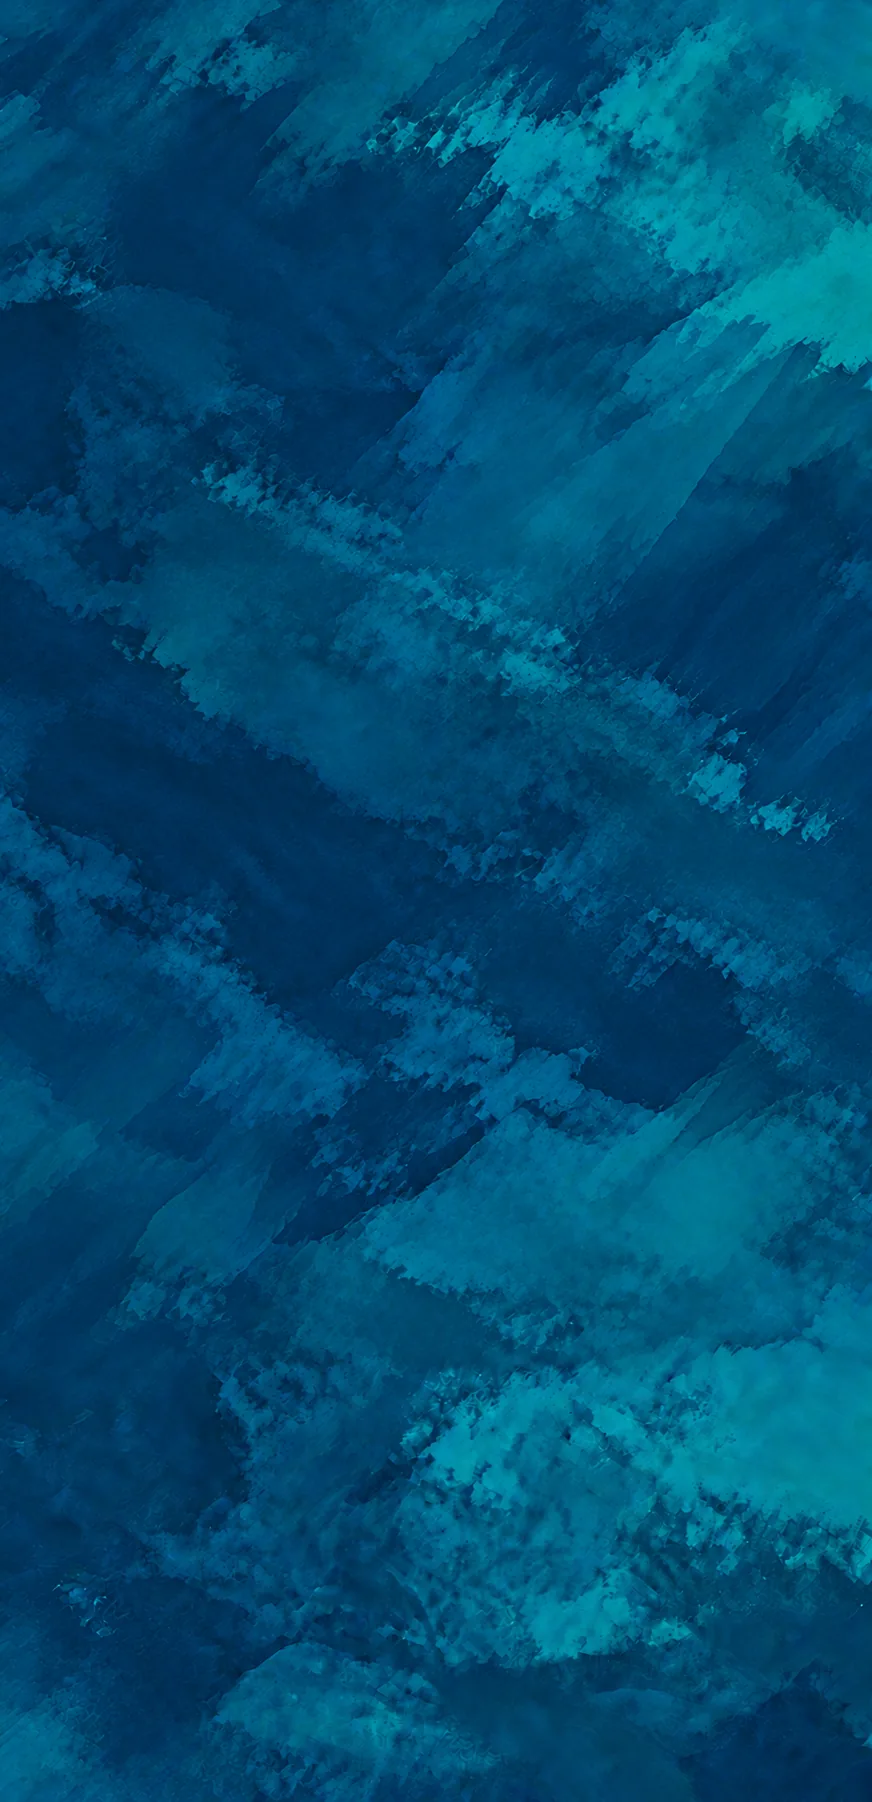
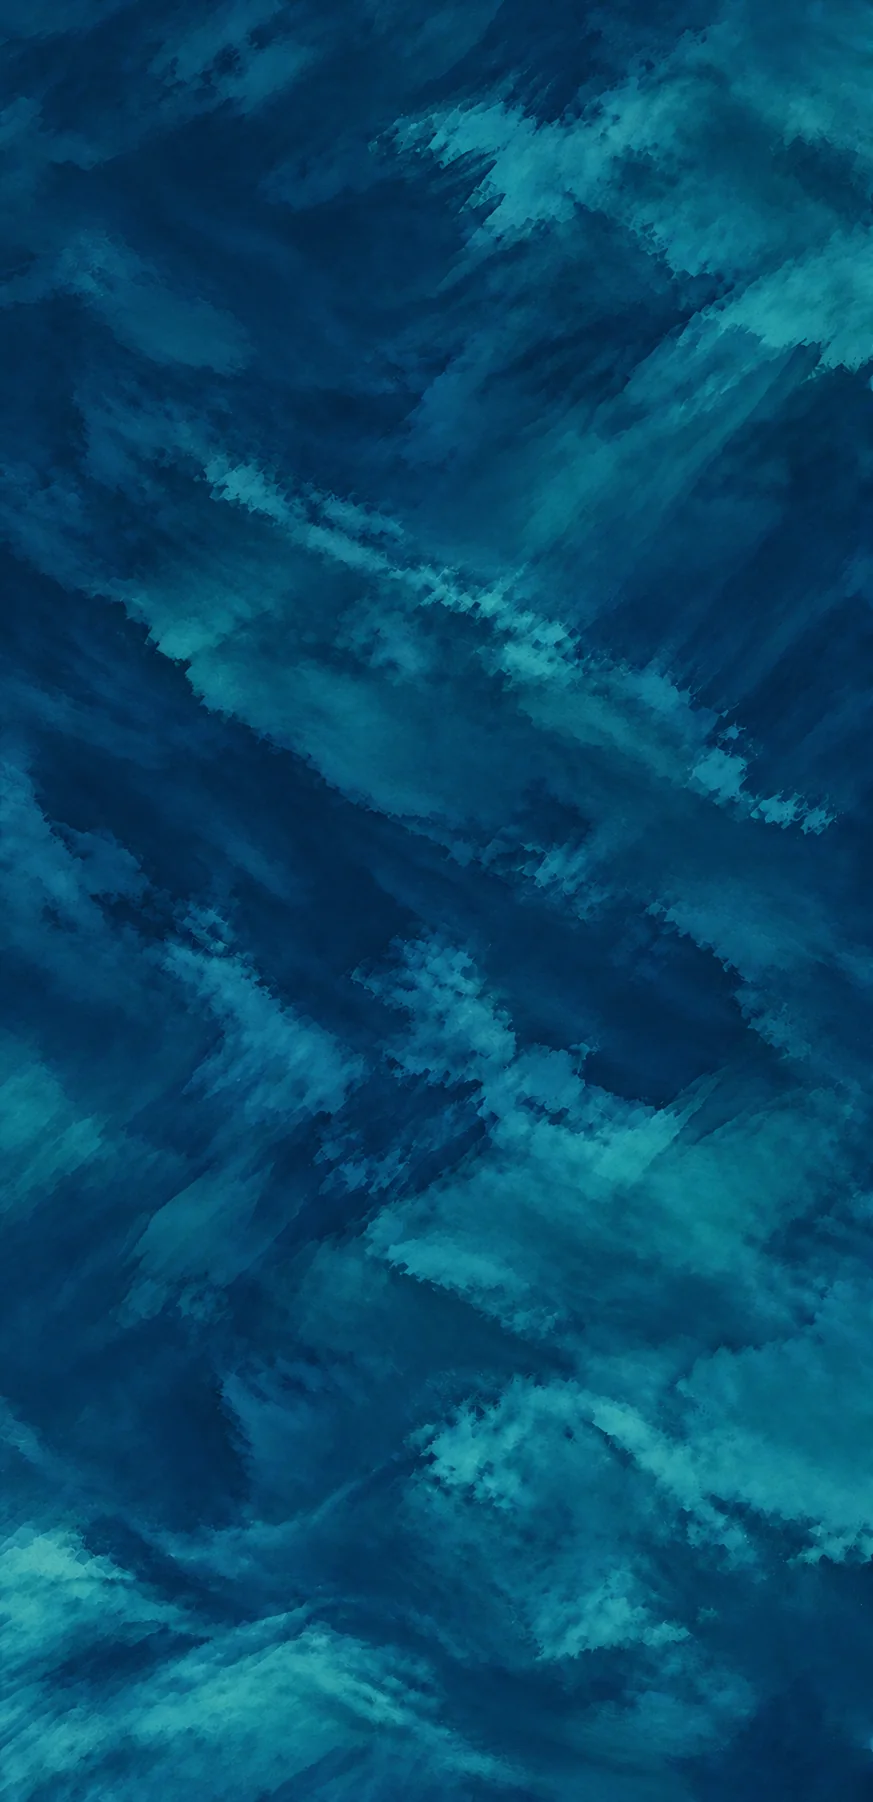
V20.2 : couverture — variante turquoise fluide de l'animation (mouvement continu)
Claude-Session: https://claude.ai/code/session_015KFPMXGsBLN9weHQ1JP6B6

diff --git a/app/src/main/assets/cover/animation.js b/app/src/main/assets/cover/animation.js
@@ -1,90 +1,83 @@
-    (() => {
-      'use strict';
-      const FPS = 10;
-      const FRAMES = 100;              // 10 seconds, then an intentional restart.
-      const FRAME_MS = 1000 / FPS;
-      const ocean = document.getElementById('ocean');
-      const cloud = document.getElementById('cloud');
-      const farPlane = document.getElementById('far-plane');
-      const nearPlane = document.getElementById('near-plane');
-      const flecks = [...document.querySelectorAll('.fleck')];
-      const reducedMotion = window.matchMedia('(prefers-reduced-motion: reduce)');
-      const TAU = Math.PI * 2;
-      let lastFrame = -1;
-      let startedAt = performance.now();
-      let paused = false;
+(() => {
+  'use strict';
 
-      function setFrame(frame) {
-        frame = ((Math.floor(frame) % FRAMES) + FRAMES) % FRAMES;
-        if (frame === lastFrame) return;
-        lastFrame = frame;
-        const u = frame / (FRAMES - 1);
+  const DURATION_MS = 10000;
+  const ocean = document.getElementById('ocean');
+  const cloud = document.getElementById('cloud');
+  const farPlane = document.getElementById('far-plane');
+  const nearPlane = document.getElementById('near-plane');
+  const flecks = [...document.querySelectorAll('.fleck')];
+  const reducedMotion = window.matchMedia('(prefers-reduced-motion: reduce)');
+  let startedAt = performance.now();
+  let paused = false;
 
-        // Only these sampled positions reach the DOM; there is no in-between motion.
-        const oceanX = -25 * u + 1.5 * Math.sin(TAU * u);
-        const oceanY = 155 * u + 2 * Math.sin(TAU * u * 1.2);
-        ocean.setAttribute('transform', `translate(${oceanX.toFixed(2)} ${oceanY.toFixed(2)})`);
+  const lerp = (from, to, progress) => from + (to - from) * progress;
+  const fmt = value => value.toFixed(3);
 
-        // The nearby cloud crosses the picture more than twice as fast as the distant sea.
-        const cloudX = -68 * u + 3 * Math.sin(TAU * u * 0.9);
-        const cloudY = 385 * u + 4 * Math.sin(TAU * u * 1.1);
-        const cloudScale = 1 + 0.055 * u;
-        cloud.setAttribute('transform',
-          `translate(${cloudX.toFixed(2)} ${cloudY.toFixed(2)}) ` +
-          `translate(360 710) scale(${cloudScale.toFixed(4)}) translate(-360 -710)`);
+  // Every intermediate pose is calculated from elapsed time, without frame sampling.
+  function setProgress(progress) {
+    const u = Math.min(1, Math.max(0, Number(progress) || 0));
+    const seconds = u * DURATION_MS / 1000;
 
-        const farX = 18 * (Math.sin(TAU * u * 1.15 + 0.4) - Math.sin(0.4)) + 11 * u;
-        const farY = 12 * Math.sin(TAU * u * 1.1) - 6 * u;
-        const farAngle = 0.75 * Math.sin(TAU * u * 1.1);
-        farPlane.setAttribute('transform',
-          `translate(${farX.toFixed(2)} ${farY.toFixed(2)}) rotate(${farAngle.toFixed(3)} 420 1180)`);
+    // The closer cloud travels about twice as far as the distant ocean.
+    ocean.setAttribute('transform',
+      `translate(${fmt(lerp(0, -16, u))} ${fmt(lerp(0, 108, u))})`);
+    cloud.setAttribute('transform',
+      `translate(${fmt(lerp(0, -29, u))} ${fmt(lerp(0, 215, u))})`);
 
-        const nearX = 2.6 * Math.sin(TAU * u * 0.9);
-        const nearY = 2.0 * (Math.sin(TAU * u * 1.1 + 0.2) - Math.sin(0.2));
-        const nearAngle = 0.14 * Math.sin(TAU * u);
-        nearPlane.setAttribute('transform',
-          `translate(${nearX.toFixed(2)} ${nearY.toFixed(2)}) rotate(${nearAngle.toFixed(3)} 500 1780)`);
+    farPlane.setAttribute('transform',
+      `translate(${fmt(lerp(0, 24, u))} ${fmt(lerp(0, -9, u))}) ` +
+      `rotate(${fmt(lerp(0, 0.55, u))} 420 1180)`);
+    nearPlane.setAttribute('transform',
+      `translate(${fmt(lerp(0, 3.5, u))} ${fmt(lerp(0, -1.5, u))}) ` +
+      `rotate(${fmt(lerp(0, 0.08, u))} 500 1780)`);
 
-        for (const [i, fleck] of flecks.entries()) {
-          const phase = Number(fleck.dataset.phase);
-          const period = Number(fleck.dataset.period);
-          const max = Number(fleck.dataset.max);
-          const wave = Math.sin(TAU * (frame + phase) / period);
-          const handVariation = 0.83 + 0.17 * Math.sin((frame + phase) * 2.17 + i * 0.71);
-          const opacity = max * Math.pow(Math.max(0, wave), 1.8) * handVariation;
-          fleck.setAttribute('opacity', opacity.toFixed(3));
-          const motion = Number(fleck.dataset.motion || 1);
-          const trembleX = Math.round(Math.sin((frame + phase) * 0.81) * motion);
-          const trembleY = Math.round(Math.cos((frame + phase) * 0.57) * motion * 0.65);
-          fleck.setAttribute('transform', `translate(${trembleX} ${trembleY})`);
-        }
-      }
+    // Short, linear fades make the painted marks live without any jitter.
+    for (const fleck of flecks) {
+      const phaseSeconds = Number(fleck.dataset.phase) / 10;
+      const periodSeconds = Number(fleck.dataset.period) / 10;
+      const maxOpacity = Number(fleck.dataset.max);
+      const motion = Number(fleck.dataset.motion || 1);
+      const localTime = (seconds + phaseSeconds) % periodSeconds;
+      const activeSeconds = Math.min(2.8, periodSeconds * 0.58);
+      const fadeSeconds = Math.min(0.7, activeSeconds * 0.35);
+      const envelope = localTime < activeSeconds
+        ? Math.max(0, Math.min(1, localTime / fadeSeconds,
+          (activeSeconds - localTime) / fadeSeconds))
+        : 0;
+      fleck.setAttribute('opacity', fmt(maxOpacity * envelope));
+      fleck.setAttribute('transform',
+        `translate(${fmt(motion * localTime / periodSeconds)} ` +
+        `${fmt(-motion * localTime / periodSeconds * 0.4)})`);
+    }
+  }
 
-      function tick(now) {
-        if (!paused && !reducedMotion.matches) {
-          setFrame(Math.floor(((now - startedAt) % 10000) / FRAME_MS));
-        }
-        requestAnimationFrame(tick);
-      }
+  function tick(now) {
+    if (!paused && !reducedMotion.matches) {
+      setProgress(((now - startedAt) % DURATION_MS) / DURATION_MS);
+    }
+    requestAnimationFrame(tick);
+  }
 
-      const onMotionPreferenceChange = () => {
-        startedAt = performance.now();
-        setFrame(0);
-      };
-      if (reducedMotion.addEventListener) reducedMotion.addEventListener('change', onMotionPreferenceChange);
-      else if (reducedMotion.addListener) reducedMotion.addListener(onMotionPreferenceChange);
-      document.addEventListener('visibilitychange', () => {
-        if (!document.hidden) startedAt = performance.now();
-      });
+  function onMotionPreferenceChange() {
+    startedAt = performance.now();
+    setProgress(0);
+  }
+  if (reducedMotion.addEventListener) {
+    reducedMotion.addEventListener('change', onMotionPreferenceChange);
+  } else if (reducedMotion.addListener) {
+    reducedMotion.addListener(onMotionPreferenceChange);
+  }
+  document.addEventListener('visibilitychange', () => {
+    if (!document.hidden) startedAt = performance.now();
+  });
 
-      // Tiny preview API for integration/QA; no visible controls in the app artwork.
-      window.windGliderAnimation = {
-        setFrame,
-        pause() { paused = true; },
-        play() { paused = false; startedAt = performance.now(); },
-        get fps() { return FPS; },
-        get durationMs() { return 10000; }
-      };
-      setFrame(0);
-      requestAnimationFrame(tick);
-    })();
+  window.windGliderAnimation = {
+    setProgress,
+    pause() { paused = true; },
+    play() { paused = false; startedAt = performance.now(); },
+    get durationMs() { return DURATION_MS; }
+  };
+  setProgress(0);
+  requestAnimationFrame(tick);
+})();

diff --git a/app/src/main/assets/cover/index.html b/app/src/main/assets/cover/index.html
@@ -5,7 +5,7 @@
   <meta name="viewport" content="width=device-width, initial-scale=1, viewport-fit=cover">
   <meta name="theme-color" content="#073e60">
   <title>Wind Glider — ciel vivant</title>
-  <!-- V20.2 : animation de JB (« Session 20.1/animation »), fond de la couverture et de la page Tuto. Calques en WebP. -->
+  <!-- V20.2 : animation de JB, « variante turquoise fluide » (mouvement continu), fond de la couverture et de la page Tuto. Calques en WebP. -->
   <style>
     html, body { width: 100%; height: 100%; margin: 0; overflow: hidden; }
     body { background: #073e60; }

diff --git a/docs/HANDOFF.md b/docs/HANDOFF.md
@@ -1,7 +1,7 @@
 # HANDOFF — état du projet (Wind Glider, ex-spiral, ex-GLIDY, ex-Glider Copilot)
 
 ## Session 20.2 — couverture animée, titre « ailes de pilote », V2.0.2-lite (06/10/2026)
-- Couverture (et avertissement, page Tuto) : **animation HTML de JB** (« Session 20.1/animation » : océan et nuage peints
+- Couverture (et avertissement, page Tuto) : **animation HTML de JB, « variante turquoise fluide »** (mouvement continu ; océan et nuage peints
   qui glissent, deux planeurs, touches de gouache, 10 i/s) jouée dans une WebView depuis `assets/cover/` (calques
   convertis en WebP, ~480 Ko au lieu de 5,6 Mo), fond #073E60 (`COVER_SEA`), aucun toucher transmis. `CoverAnimation`.
 - Titre `BrandTitle` d'après la maquette : WIND au-dessus de GLIDER (lignes resserrées), G et R 16 % plus grands,
